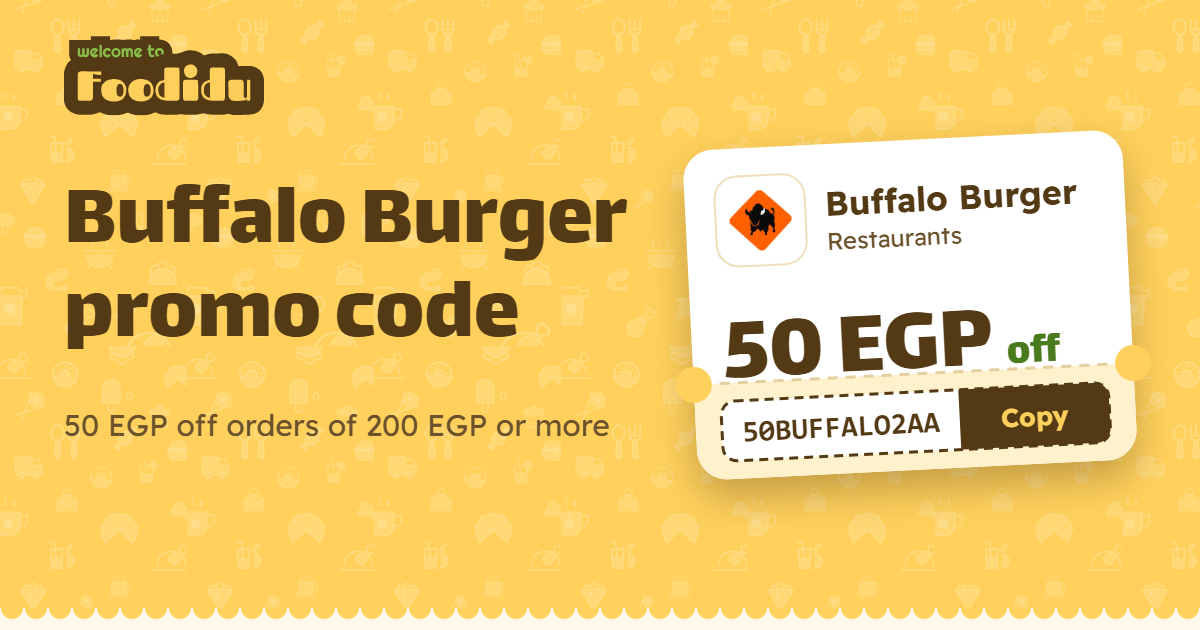
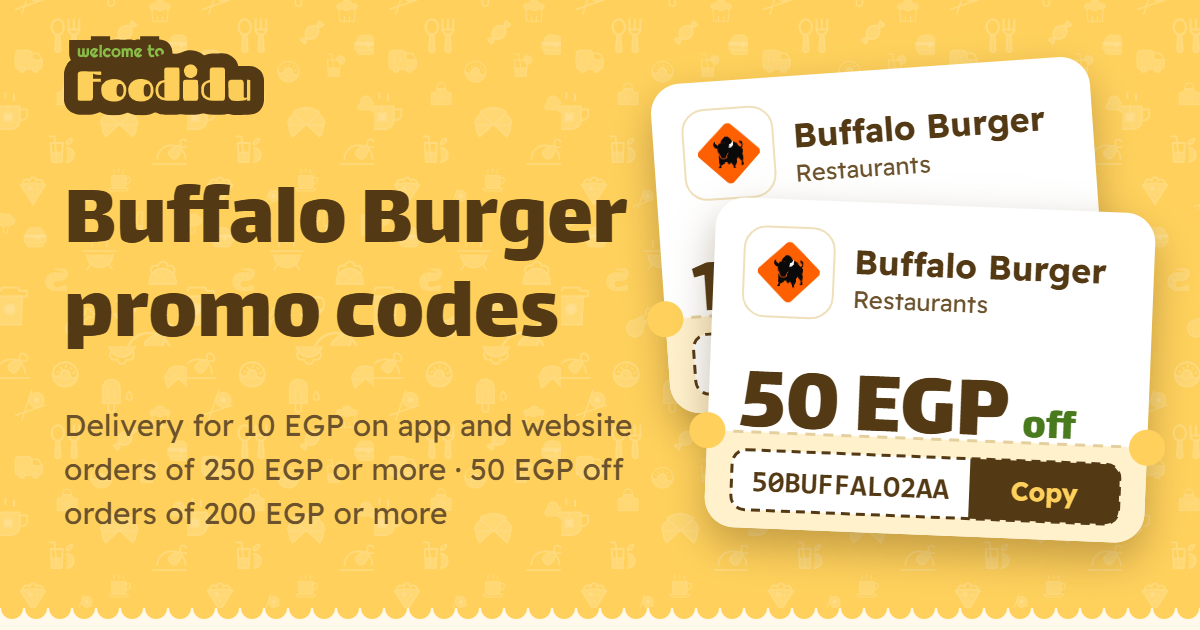
Add Zad Market (FIRST100) and InstaShop (AHLAN100)
Both codes come from the brands' own ads and have not been checked by Foodidu yet. Zad is an
Alexandria grocery app (zadegy.com): 100 EGP off a first order of 500 EGP or more. InstaShop:
100 EGP off the first order in Egypt. Logos are the official App Store icons. Lowercase-URL
redirects for the new pages, and the Buffalo Burger share images now show DELIVERY10.

diff --git a/tools/assets.html b/tools/assets.html
@@ -42,7 +42,9 @@ const LOGOS = {
   "spinneys":        { src: "spinneys.png",         pad: .08, bg: "#fff", from: "/__tools/logo-src/" },
   "zumra":           { src: "zumra.png",            pad: .08, bg: "#fff", from: "/__tools/logo-src/" },
   "buffalo-burger":  { src: "buffalo-burger-mark.svg", pad: .14, bg: "#fff", from: "/__tools/logo-src/" },   // the emblem only: the full wordmark is too wide for a square
-  "coffee-and-cream": { src: "coffee-and-cream.png", pad: 0,  bg: "#880020", from: "/__tools/logo-src/" }
+  "coffee-and-cream": { src: "coffee-and-cream.png", pad: 0,  bg: "#880020", from: "/__tools/logo-src/" },
+  "zad-market":      { src: "zad-market.jpg",       pad: 0,   bg: "#0E4D2C", from: "/__tools/logo-src/", hq: true },   // App Store icon
+  "instashop":       { src: "instashop.jpg",        pad: 0,   bg: "#EC0B7E", from: "/__tools/logo-src/", hq: true }    // App Store icon
 };
 
 // a logo tile at 384 px plus the 192 px copy the pages use for small tiles
